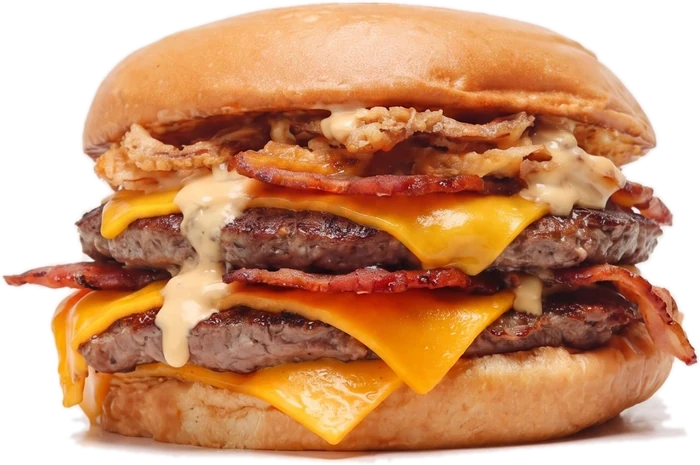
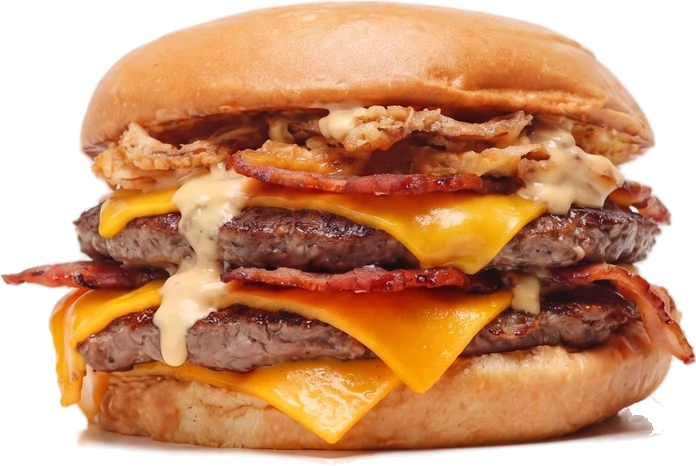
Recortes con matting, cortes de capas que siguen los ingredientes, entrada sin rebote, ofertas y Tres toques animados
Claude-Session: https://claude.ai/code/session_013U52mpzMbizm2847mJGwGZ

diff --git a/css/billy.css b/css/billy.css
@@ -53,7 +53,7 @@
 .footer__big { color: var(--paper); }
 
 /* Hero: la Crispy 2.0 es más ancha que alta, así que el contenedor es apaisado */
-.burger { aspect-ratio: 700 / 465; width: min(64vh, 44vw); top: 64%; }
+.burger { aspect-ratio: 696 / 466; width: min(64vh, 44vw); top: 64%; }
 .sticker--rate { background: var(--cheddar); box-shadow: 4px 5px 0 var(--ketchup); }
 .sticker--rate b { color: var(--ketchup); }
 .stage__meta-c { max-width: 300px; }
@@ -86,3 +86,46 @@
   .footer__big { font-size: 31vw; }
   .loader__logo { width: 76px; height: 74px; }
 }
+
+/* Ofertas: se nota que son ofertas */
+.card--offer { --tone: var(--ketchup); color: #fff; box-shadow: 0 0 0 3px var(--ink); }
+.card--offer .card__desc { color: rgba(255, 255, 255, .86); }
+.card--offer .card__plus { background: #fff; color: var(--ketchup); }
+.card--offer:hover .card__plus { background: var(--ink); color: #fff; }
+.card--offer .card__tag { background: #fff; color: var(--ketchup); font-size: .95rem; padding: 8px 14px; border-radius: 40px; letter-spacing: .04em; transform: rotate(-5deg); animation: wiggle 2.4s var(--ease) infinite; }
+.card--offer .card__price { font-size: 2.1rem; }
+@keyframes wiggle { 0%, 70%, 100% { transform: rotate(-5deg) scale(1); } 80% { transform: rotate(3deg) scale(1.1); } 90% { transform: rotate(-7deg) scale(1.05); } }
+.card__prices { display: flex; align-items: baseline; gap: 10px; flex-wrap: wrap; }
+.card__was, .panel__was { text-decoration: line-through; opacity: .7; font: 500 1rem var(--font-text); }
+.panel__offer { position: absolute; z-index: 3; top: calc(var(--nav-h) + 8px); right: clamp(24px, 4vw, 64px); padding: 10px 18px; background: #fff; color: var(--ketchup); border-radius: 40px; font: 400 clamp(1rem, 2.2vw, 1.5rem) var(--font-display); transform: rotate(5deg); animation: wiggle 2.4s var(--ease) infinite; }
+
+/* Tres toques: tarjetas, números que saltan y platos flotando */
+.how { position: relative; overflow: hidden; }
+.how__title { position: relative; z-index: 2; }
+.how__float { position: absolute; z-index: 1; max-width: none; filter: drop-shadow(0 26px 26px rgba(10, 42, 94, .28)); pointer-events: none; }
+.how__float--a { right: -3vw; top: clamp(30px, 5vw, 90px); width: min(46vw, 640px); }
+.how__float--b { right: clamp(10px, 8vw, 150px); bottom: 18%; width: min(16vw, 220px); }
+.how__steps { position: relative; z-index: 2; }
+.how__steps li {
+  position: relative; background: var(--paper); border: 3px solid var(--ink); border-radius: 22px; padding: 26px 24px 28px;
+  box-shadow: 7px 9px 0 var(--ketchup); transition: transform .5s var(--ease), box-shadow .5s var(--ease);
+}
+.how__steps li:nth-child(1) { transform: rotate(-1.6deg); }
+.how__steps li:nth-child(2) { transform: rotate(1.2deg) translateY(14px); }
+.how__steps li:nth-child(3) { transform: rotate(-.8deg); }
+.how__steps li:hover { transform: rotate(0) translateY(-8px); box-shadow: 10px 14px 0 var(--ink); }
+.how__n {
+  display: grid; place-items: center; width: clamp(64px, 6vw, 92px); aspect-ratio: 1; border-radius: 50%;
+  background: var(--ketchup); color: #fff; font-size: clamp(2.2rem, 3.6vw, 3.4rem); line-height: 1; margin-bottom: 14px;
+}
+.how__modes { position: relative; z-index: 2; }
+@media (max-width: 899px) {
+  .how__float--a { width: 78vw; right: -18vw; top: 70px; opacity: .9; }
+  .how__float--b { width: 26vw; right: 6vw; bottom: 38%; }
+  .how__steps { gap: 22px; }
+  .how__n { position: absolute; right: 16px; top: 14px; margin: 0; width: 56px; font-size: 2rem; }
+  .how__steps li:nth-child(n) { transform: none; }
+  .card--offer .card__price { font-size: 1.6rem; }
+}
+
+.grid > .card.card--offer, .grid > .card.card--offer:nth-child(14n + 1) { --tone: var(--ketchup); }

diff --git a/js/motion.js b/js/motion.js
@@ -56,7 +56,8 @@
     tl.to(progress, { v: 100, duration: 0.9, ease: 'power2.inOut', onUpdate: () => { count.textContent = Math.round(progress.v); } })
       .to('[data-loader]', { yPercent: -100, duration: 0.7, ease: 'expo.inOut', onComplete: () => document.querySelector('[data-loader]').classList.add('is-done') })
       .from('[data-title-a], [data-title-b]', { yPercent: 40, opacity: 0, duration: 1, ease: 'expo.out', stagger: 0.08 }, '-=.35')
-      .from(layers, { y: () => -root.innerHeight * 1.1, rotation: () => gsap.utils.random(-14, 14), duration: 0.85, ease: 'bounce.out', stagger: 0.11 }, '-=.9')
+      // Caída continua y sin rebote: cada capa entra desde arriba con fundido y frena suave al asentarse.
+      .from(layers, { y: () => -root.innerHeight * 0.75, rotation: () => gsap.utils.random(-5, 5), autoAlpha: 0, duration: 1.35, ease: 'power4.out', stagger: 0.12 }, '-=.9')
       .from(metas, { opacity: 0, y: 14, duration: 0.6, ease: 'power2.out', stagger: 0.05 }, '-=.35')
       .from('.sticker--spin', { scale: 0, rotation: -120, duration: 0.9, ease: 'back.out(1.8)' }, '-=.7')
       .from('.sticker--rate', { scale: 0, duration: 0.6, ease: 'back.out(2.4)' }, '-=.6');
@@ -133,6 +134,11 @@
   }
 
   function reveals() {
+    $$('[data-float]').forEach((n, i) => {
+      gsap.fromTo(n, { rotation: i ? 9 : -9, yPercent: i ? 14 : -10 }, { rotation: i ? -6 : 7, yPercent: i ? -14 : 12, ease: 'none', scrollTrigger: { trigger: '.how', start: 'top bottom', end: 'bottom top', scrub: 0.8 } });
+      gsap.to(n, { y: i ? -14 : 14, duration: 2.6 + i * 0.5, ease: 'sine.inOut', yoyo: true, repeat: -1 });
+    });
+    $$('.how__n').forEach((n) => gsap.from(n, { scale: 0, rotation: -40, duration: 0.9, ease: 'back.out(2.2)', scrollTrigger: { trigger: n, start: 'top 90%', once: true } }));
     $$('[data-rise]').forEach((n) => gsap.from(n, { y: 50, opacity: 0, duration: 1, ease: 'expo.out', scrollTrigger: { trigger: n, start: 'top 88%', once: true } }));
     $$('.display--xl').forEach((n) => gsap.from(n, { yPercent: 18, opacity: 0, duration: 1.1, ease: 'expo.out', scrollTrigger: { trigger: n, start: 'top 90%', once: true } }));
     gsap.fromTo('[data-bleed-img]', { yPercent: -8 }, { yPercent: 8, ease: 'none', scrollTrigger: { trigger: '[data-bleed]', scrub: true } });
@@ -217,7 +223,28 @@
     document.body.classList.remove('is-loading');
     if (lenis) lenis.start();
     ScrollTrigger.refresh();
+    keepScrollInSync();
     goToHash();
+  }
+
+  /* La carta y las fotos cargan imágenes en diferido y la página crece después del primer cálculo:
+     sin recalcular, las escenas fijadas y el final de la página quedan desfasados. Se recalcula
+     (con pausa) solo cuando la altura cambia de verdad, para no entrar en bucle con las escenas fijadas. */
+  function keepScrollInSync() {
+    let lastHeight = document.documentElement.scrollHeight;
+    let timer = 0;
+    const sync = () => {
+      clearTimeout(timer);
+      timer = setTimeout(() => {
+        const height = document.documentElement.scrollHeight;
+        if (Math.abs(height - lastHeight) < 3) return;
+        ScrollTrigger.refresh();
+        lastHeight = document.documentElement.scrollHeight;
+      }, 250);
+    };
+    if ('ResizeObserver' in root) new ResizeObserver(sync).observe(document.body);
+    root.addEventListener('load', sync);
+    document.fonts && document.fonts.ready.then(sync);
   }
 
   function goToHash() {

diff --git a/js/menu-ui.js b/js/menu-ui.js
@@ -24,12 +24,14 @@
   function featuredPanel(item, i) {
     return el('article', { class: 'panel', 'data-tone': TONES[i % TONES.length], 'data-panel-item': '' }, [
       el('span', { class: 'panel__ghost', 'aria-hidden': 'true', text: item.name.split(' ')[0] }),
+      item.wasCents ? el('span', { class: 'panel__offer', text: `Oferta −${Math.round((1 - item.cents / item.wasCents) * 100)}%` }) : null,
       el('p', { class: 'panel__num micro', text: `${String(i + 1).padStart(2, '0')} / ${String(NT.FEATURED.length).padStart(2, '0')}` }),
       el('div', { class: 'panel__copy' }, [
         el('h3', { class: 'panel__name', text: item.name }),
         el('p', { class: 'panel__desc', text: item.desc }),
         el('div', { class: 'panel__buy' }, [
           el('span', { class: 'panel__price', text: money(item.cents) }),
+          item.wasCents ? el('s', { class: 'panel__was', text: money(item.wasCents) }) : null,
           el('button', { class: 'panel__add', type: 'button', 'data-add': item.id, text: 'La quiero', 'aria-label': `Añadir ${item.name}` }),
         ]),
       ]),
@@ -48,14 +50,18 @@
     const media = item.img
       ? el('div', { class: 'card__media' }, [el('img', { src: imgPath(item.img), alt: '', loading: 'lazy' })])
       : el('div', { class: 'card__media card__media--type', 'aria-hidden': 'true', text: item.name.split(' ')[0] });
-    return el('button', { class: 'card', type: 'button', 'data-add': item.id, 'aria-label': `Añadir ${item.name}, ${money(item.cents)}` }, [
-      item.tag ? el('span', { class: 'card__tag', text: item.tag }) : null,
+    const off = item.wasCents ? Math.round((1 - item.cents / item.wasCents) * 100) : 0;
+    return el('button', { class: `card${item.cat === 'ofertas' ? ' card--offer' : ''}`, type: 'button', 'data-add': item.id, 'aria-label': `Añadir ${item.name}, ${money(item.cents)}` }, [
+      item.tag ? el('span', { class: 'card__tag', text: off ? `${item.tag} −${off}%` : item.tag }) : null,
       media,
       el('span', { class: 'card__body' }, [
         el('span', { class: 'card__name', text: item.name }),
         item.desc ? el('span', { class: 'card__desc', text: item.desc }) : null,
         el('span', { class: 'card__foot' }, [
-          el('span', { class: 'card__price', text: money(item.cents) }),
+          el('span', { class: 'card__prices' }, [
+            el('span', { class: 'card__price', text: money(item.cents) }),
+            item.wasCents ? el('s', { class: 'card__was', text: money(item.wasCents) }) : null,
+          ]),
           el('span', { class: 'card__plus', 'aria-hidden': 'true', text: '+' }),
         ]),
       ]),

diff --git a/index.html b/index.html
@@ -71,11 +71,11 @@
       </h1>
 
       <div class="burger" data-burger role="img" aria-label="Hamburguesa Crispy 2.0 con doble carne, queso cheddar, bacon y cebolla crocante">
-        <img class="burger__layer" data-layer="0" src="assets/hero/bun-bottom.webp" alt="" style="left:8%;top:80.43%;width:90.57%" width="634" height="91">
-        <img class="burger__layer" data-layer="1" src="assets/hero/patty-2.webp" alt="" style="left:1%;top:61.94%;width:99%" width="693" height="102">
-        <img class="burger__layer" data-layer="2" src="assets/hero/patty-1.webp" alt="" style="left:0;top:42.58%;width:96.71%" width="677" height="108">
-        <img class="burger__layer" data-layer="3" src="assets/hero/greens.webp" alt="" style="left:11.29%;top:27.74%;width:83.86%" width="587" height="84">
-        <img class="burger__layer" data-layer="4" src="assets/hero/bun-top.webp" alt="" style="left:11.29%;top:0;width:82.71%" width="579" height="143">
+        <img class="burger__layer" data-layer="0" src="assets/hero/bun-bottom.webp" alt="" style="left:7.76%;top:74.89%;width:92.24%" width="642" height="117">
+        <img class="burger__layer" data-layer="1" src="assets/hero/patty-2.webp" alt="" style="left:0.29%;top:57.30%;width:99.71%" width="694" height="122">
+        <img class="burger__layer" data-layer="2" src="assets/hero/patty-1.webp" alt="" style="left:0;top:41.85%;width:97.41%" width="678" height="111">
+        <img class="burger__layer" data-layer="3" src="assets/hero/greens.webp" alt="" style="left:11.21%;top:22.75%;width:84.91%" width="591" height="113">
+        <img class="burger__layer" data-layer="4" src="assets/hero/bun-top.webp" alt="" style="left:11.21%;top:0;width:82.90%" width="577" height="147">
       </div>
 
       <div class="stage__meta" data-hero-meta>
@@ -143,6 +143,8 @@
 
     <!-- Cómo pedir -->
     <section id="pedir" class="how" aria-labelledby="how-title">
+      <img class="how__float how__float--a" data-float src="assets/cut/doble-deal.webp" alt="" width="708" height="570" loading="lazy">
+      <img class="how__float how__float--b" data-float src="assets/cut/papas.webp" alt="" width="635" height="854" loading="lazy">
       <h2 id="how-title" class="display display--xl how__title">Tres<br>toques</h2>
       <ol class="how__steps">
         <li data-rise><b class="how__n">1</b><h3>Elige</h3><p>Añade lo que te apetezca desde la carta: hamburguesas, combos, papas y bebidas.</p></li>

diff --git a/js/data.js b/js/data.js
@@ -45,12 +45,12 @@
   ]);
 
   const peso = (n) => n * 100;
-  const dish = (cat, id, name, price, img, desc, tag) => ({ id, cat, name, cents: peso(price), img, desc: desc || '', groups: [], tag });
+  const dish = (cat, id, name, price, img, desc, tag, was) => ({ id, cat, name, cents: peso(price), img, desc: desc || '', groups: [], tag, wasCents: was ? peso(was) : 0 });
   const drink = (id, name, price, sub) => ({ id, cat: 'bebidas', name, cents: peso(price), img: null, desc: '', groups: [], sub });
 
   const MENU = Object.freeze([
-    dish('ofertas', 'dobledeal', 'Doble Billy Deal', 799, 'doble-deal', 'Perfecto para compartir: dos deliciosas Billys con las mejores papas.', 'Oferta'),
-    dish('ofertas', 'crispy2', 'Crispy 2.0', 450, 'crispy2', 'Llegó la Crispy 2.0: ahora con doble carne y una cebolla aún más crocante y sabrosa que nunca.', 'Nuevo'),
+    dish('ofertas', 'dobledeal', 'Doble Billy Deal', 799, 'doble-deal', 'Perfecto para compartir: dos deliciosas Billys con las mejores papas.', 'Oferta', 1160),
+    dish('ofertas', 'crispy2', 'Crispy 2.0', 450, 'crispy2', 'Llegó la Crispy 2.0: ahora con doble carne y una cebolla aún más crocante y sabrosa que nunca.', 'Nuevo', 490),
 
     dish('combos', 'combo-americana', 'Americana + Papas Fritas', 485, 'combo-americana', 'Medallón de carne, queso cheddar, lechuga, tomate, cebolla y nuestra salsa Billy.'),
     dish('combos', 'combo-crispy', 'Crispy + Papas Fritas', 490, 'combo-crispy', 'Medallón de carne, queso cheddar, bacon y la cebolla crispy más crujiente.'),

diff --git a/css/sections.css b/css/sections.css
@@ -168,7 +168,7 @@
 .hours th, .hours td { padding: 8px 0; border-top: 1px solid var(--line); text-align: left; font-weight: 500; }
 .hours td { text-align: right; font-variant-numeric: tabular-nums; }
 .hours tr.is-today th, .hours tr.is-today td { font-weight: 800; color: var(--ketchup); }
-.place__media { display: grid; grid-template-rows: 1fr 1fr; gap: 12px; min-height: 620px; }
+.place__media { display: grid; grid-template-rows: minmax(240px, .8fr) minmax(340px, 1.2fr); gap: 12px; min-height: 620px; }
 .place__media > * { width: 100%; height: 100%; min-height: 280px; border: 0; border-radius: 8px; }
 .place__media img { object-fit: cover; object-position: center 85%; }
 
